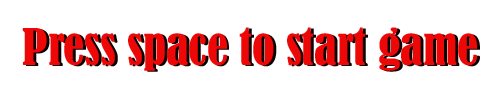
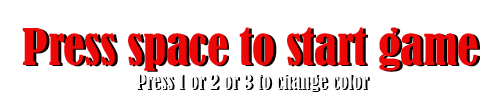
update change color

Changed region(s): [[0.27, 0.7653, 0.75, 0.949]]

diff --git a/index.html b/index.html
@@ -97,12 +97,10 @@
                 if (currentChimney.x === canvas.width / 2) {
                     if (score >= 5) {
                         between = 130;
-                        bird.src = 'bird2_copy.png'
                     }
 
                     if (score >= 10) {
                         between = 120;
-                        bird.src = 'bird_copy.png'
                     }
 
                     if (score >= 15) {
@@ -156,6 +154,21 @@
         }
 
         document.addEventListener('keydown', function (e) {
+            if (e.key == '2') {
+                bird.src = 'bird2_copy.png'
+                chimneyUp.src = 'chimneyUp_3.png'
+                chimneyDown.src = 'chimneyDown_3.png'
+            }
+            if (e.key == '3') {
+                bird.src = 'bird3_copy.png'
+                chimneyUp.src = 'chimneyUp_2.png'
+                chimneyDown.src = 'chimneyDown_2.png'
+            }
+            if (e.key == '1') {
+                bird.src = 'bird_copy.png'
+                chimneyUp.src = 'chimneyUp.png'
+                chimneyDown.src = 'chimneyDown.png'
+            }
             if (e.key == ' ') {
                 if (!isStart) {
                     isStart = true
